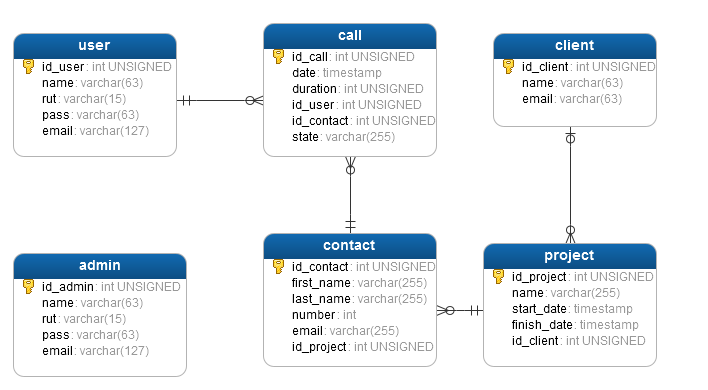
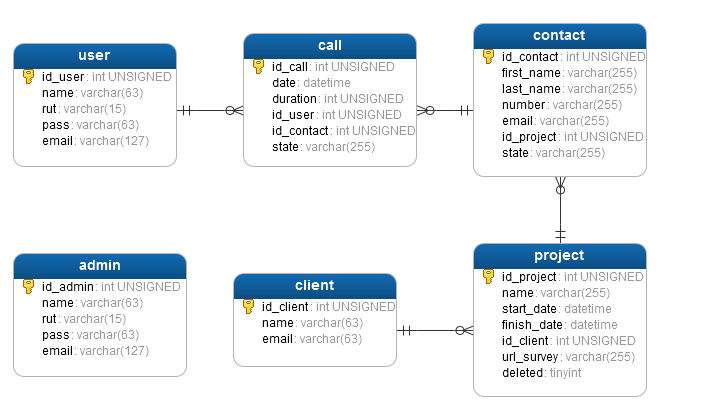
update the contact state

diff --git a/cati-sw/models/contact.js b/cati-sw/models/contact.js
@@ -48,7 +48,7 @@ exports.sendContactById = function(req, res, id_contact){
     var contactVar = new Contact();
     var where = "id_contact='" + id_contact + "'";
 
-    contactVar.find('all', {where: where}, function (err, rows){
+    contactVar.find('all', {where: where}, function(err, rows){
         if(err){
             throw err;
         }
@@ -60,4 +60,22 @@ exports.sendContactById = function(req, res, id_contact){
             res.redirect("/login");
         }
     });
+};
+
+exports.updateState = function(id_contact, newState){
+    var contactVar = new Contact();
+    var sqlQuery = "UPDATE contact SET state='" + newState + "' WHERE id_contact ='" + id_contact + "'";
+
+    contactVar.query(sqlQuery, function(err, rows){
+        if(err){
+            throw err;
+        }
+        if(rows.changedRows > 0){
+            //TODO: message: state updated
+        }
+        else{
+            //TODO: message: state not updated
+        }
+    });
+    contactVar.save();
 };

diff --git a/cati-sw/routes/user.js b/cati-sw/routes/user.js
@@ -24,12 +24,18 @@ exports.callInterface = function(req, res){
 //user form handler
 exports.processForm = function(req, res){
     index.verificateLogin(req, res, false, function(req, res){
+        var User = require('../models/user.js');
+        var Contact = require('../models/contact.js');
+
         if(req.body.submitButton == "changePass"){ //Change the pass interviewer
             if(req.body.interNewPass == req.body.interNewPass2){
-                var User = require('../models/user.js');
                 User.changePass(req.session.userData.userID, req.body.interOldPass, req.body.interNewPass);
             }
         }
+        else if(req.body.submitButton == "updateContactState"){ //Update contact state
+            Contact.updateState(req.body.numberCall, req.body.newState);
+        }
+
         res.redirect('/user');
     });
 };

diff --git a/cati-sw/public/angular/call.js b/cati-sw/public/angular/call.js
@@ -14,7 +14,6 @@ app.controller('getContactCtrl', function ($scope, $http) {
         var numberCallID = document.getElementById("numberCall").value;
         $http.get("/angular/contact/" + numberCallID)
             .then(function(response){
-                //$scope.projectGetData = response.data.contactData;
                 var callButton = document.getElementById("callButton");
                 var contactData = response.data.contactData[0];
                 callButton.setAttribute('href', 'skype:' + fixNumber(contactData.number) + '?call');
